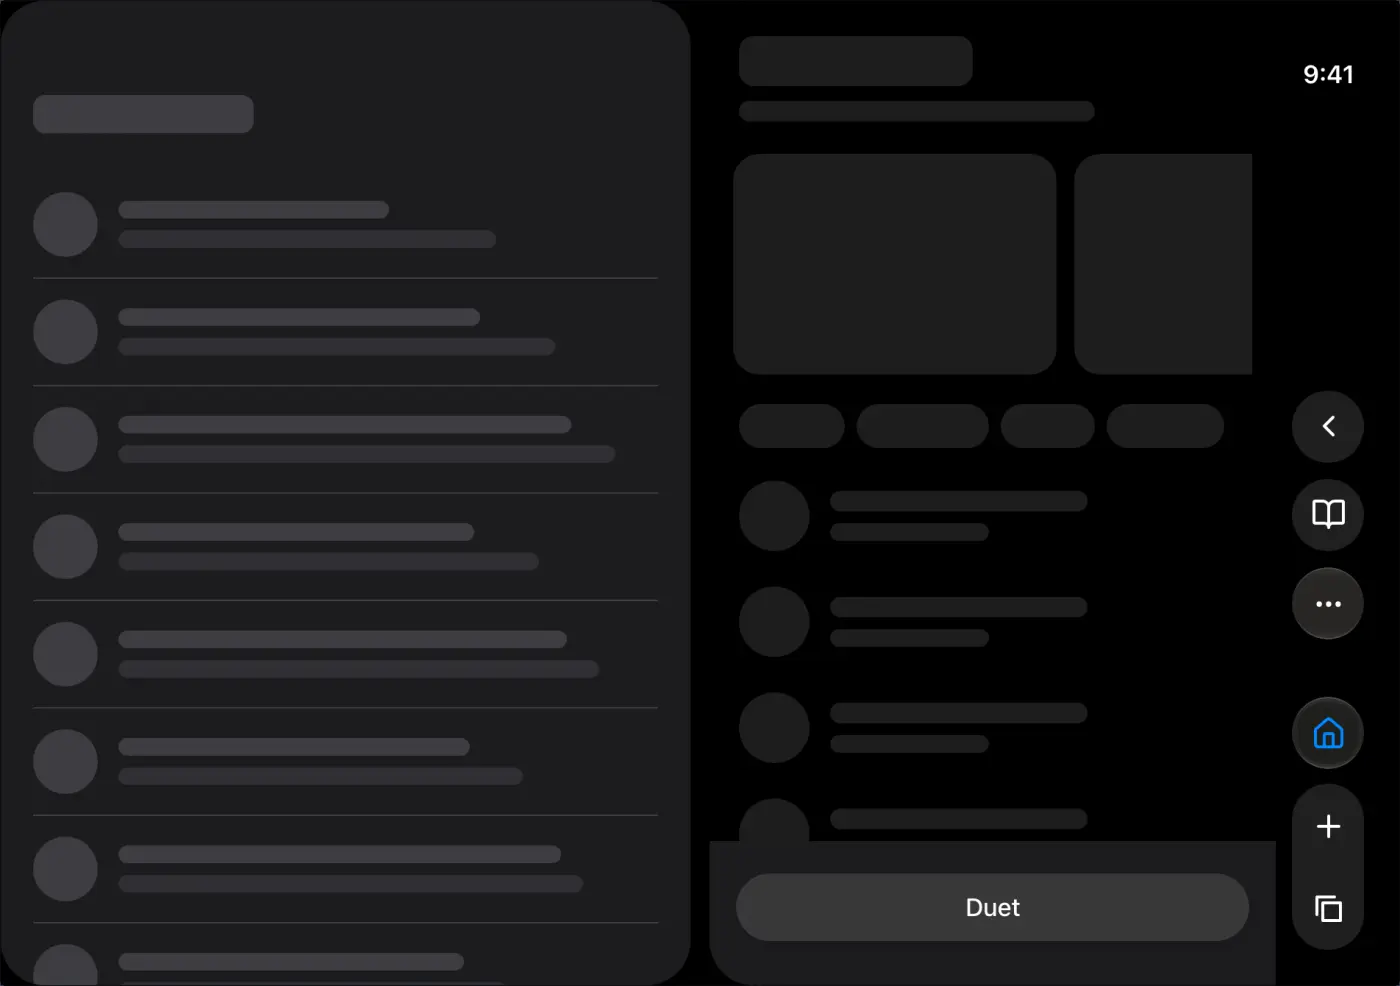
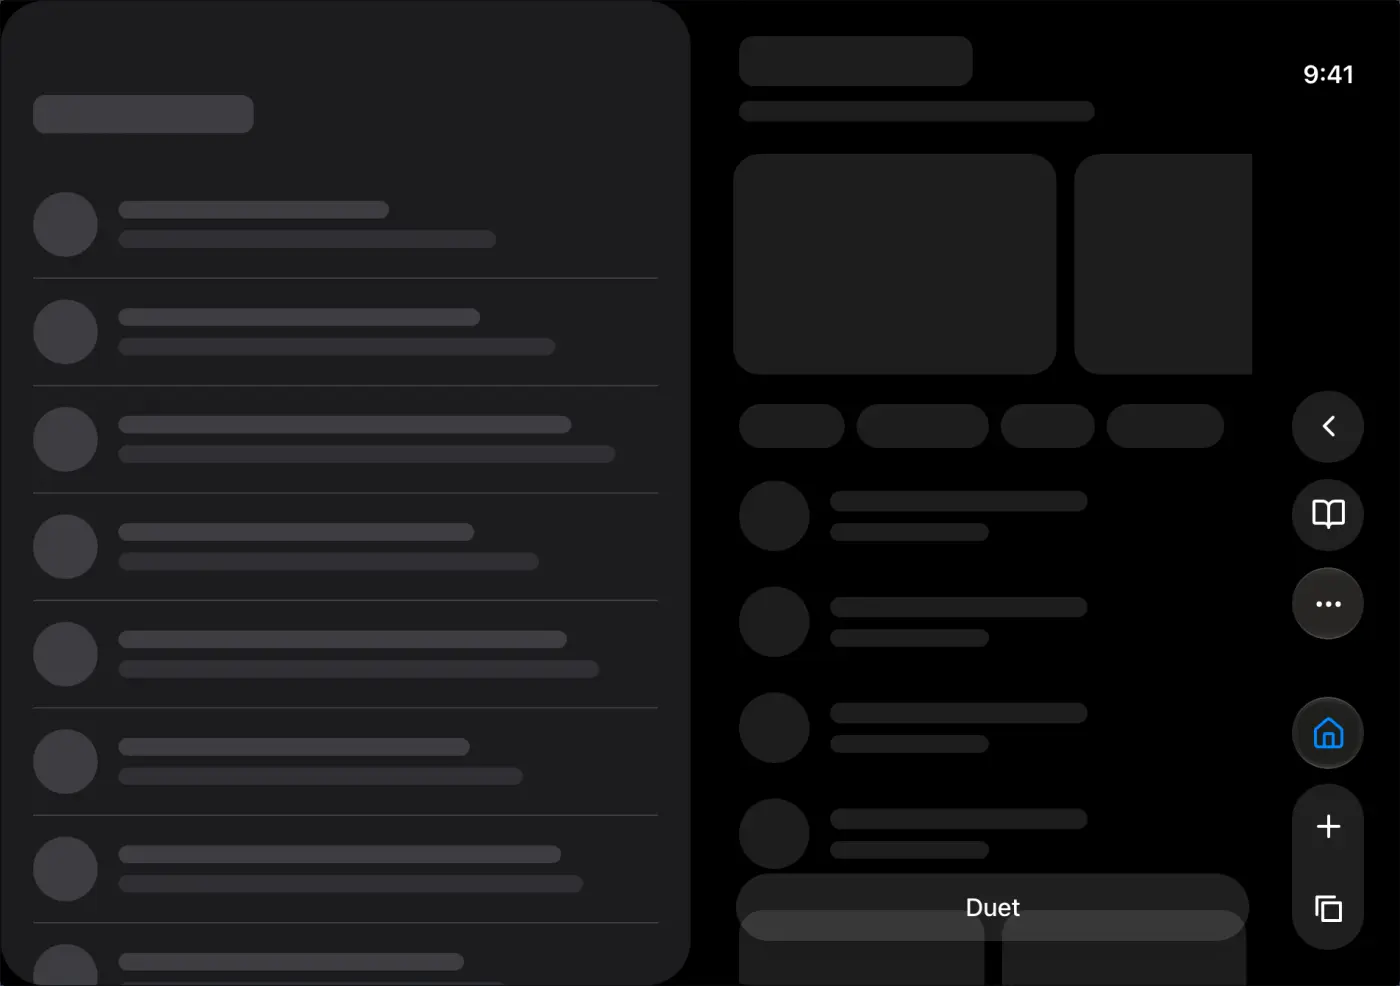
site: web Duo page runs on under Safari's URL pill
The emulator drew a solid band behind the pill, which Duet removed in 0.2.1. In column mode the band is gone and the page shows through, as on the device.

Changed region(s): [[0.4914, 0.8519, 0.9214, 1.0]]

diff --git a/apps/site/app/duo/web-duo.tsx b/apps/site/app/duo/web-duo.tsx
@@ -81,7 +81,8 @@ function safariWindow(o: { win: Box; page: Size; col: Side; back: number; clock?
     under: o.rounded ? <div style={{ ...windowBg, left: win.x, top: win.y, width: win.w, height: win.h }} /> : undefined,
     chrome: (
       <div style={{ position: "absolute", left: win.x, top: win.y, width: win.w, height: win.h, borderRadius: o.rounded ? 30 : undefined, overflow: "hidden", pointerEvents: "none" }}>
-        <div style={{ position: "absolute", left: pageX, top: page.h, width: page.w, height: bar, background: "var(--card)" }} />
+        {/* In column mode the page runs on under the pill (Duet extends it by outer minus inner height). */}
+        {!column && <div style={{ position: "absolute", left: pageX, top: page.h, width: page.w, height: bar, background: "var(--card)" }} />}
         <UrlBar left={pageX + 18} top={page.h + Math.min(22, (bar - 46) / 2)} width={page.w - 36} host={o.host} />
         <SafariColumn x={col === "left" ? 0 : page.w} h={win.h} col={col} back={o.back} clock={o.clock} over={column} />
       </div>
